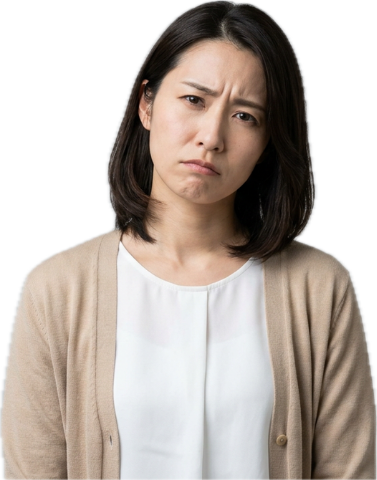
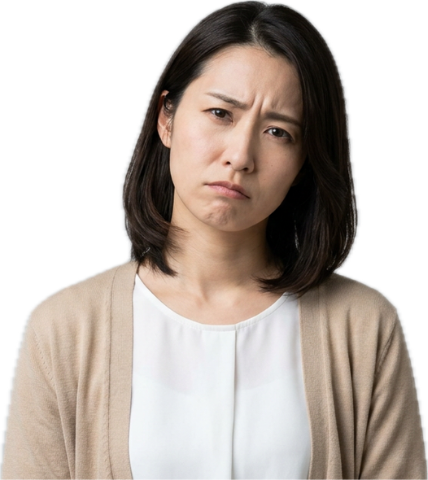
設計ページ：どんな作りのサムネイルでも再現できるように（縦書き・写真のコマ・絵文字・ギザギザ吹き出し・集中線・二重縁取り・金文字・光・影・背景ぼかし・3人まで）、架空の人物30人・背景写真20種に拡充

Changed region(s): [[0.0, 0.0, 1.0, 1.0], [0.496, 0.0, 0.5544, 0.0312], [0.7003, 0.1562, 0.7294, 0.1875]]

diff --git a/index.html b/index.html
@@ -387,25 +387,26 @@ function drawThumb(box, t) {
 
 // ---------- 競合サムネイルの再現 ----------
 // AIが参考の動画のサムネイル画像を見て書いた設計図（layout）どおりに描く。座標は画面に対する割合（0〜1）
-// 人物は、AIで作った架空の人物（persons/ のPNG。背景を切り抜いたもの）から選ぶ
+// 人物は AIで作った架空の人物（persons/ の切り抜きPNG）、写真の背景・コマは架空の場面（scenes/ のJPEG）。一覧は裏側（Code.gs の PERSONS・SCENES）
 const PERSON_BASE = "persons/", SCENE_BASE = "scenes/";
-const SCENE_IDS = ["living", "house", "office", "construction", "classroom", "clinic", "shop", "desk"];
-const PERSON_IDS = ["m40_suit_surprise", "m40_suit_serious", "m40_suit_troubled", "f30_office_surprise", "f30_office_serious", "f30_office_troubled",
-  "m50_work_surprise", "m50_work_serious", "m30_casual_surprise", "m30_casual_troubled", "f40_uniform_serious", "f40_suit_surprise"];
+const ASSET_ID = /^[a-z0-9_]{2,40}$/;
 function drawLayout(box, L) {
   const id = box.id, W = 1280, H = 720, SVGNS = "http://www.w3.org/2000/svg";
   const num = (v, lo, hi, d) => { v = Number(v); return isFinite(v) ? Math.min(hi, Math.max(lo, v)) : d; };
   const col = (c, d) => /^#[0-9a-fA-F]{6}$/.test(c || "") ? c : d;
   const bg = L.bg || {}, c1 = col(bg.c1, "#111111"), c2 = col(bg.c2, c1);
+  const shapes = (L.shapes || []).slice(0, 10);
+  const area = s => [num(s.x, -0.2, 1.2, 0) * W, num(s.y, -0.2, 1.2, 0) * H, num(s.w, 0, 1.4, 0.2) * W, num(s.h, 0, 1.4, 0.1) * H];
   const ol = L.outline === "" ? "" : col(L.outline, "#FFFFFF");  // 人物のフチ（空ならフチなし）
   let defs = ol ? `<filter id="ol${id}" x="-15%" y="-15%" width="130%" height="130%"><feMorphology in="SourceAlpha" operator="dilate" radius="7" result="d"/>
     <feFlood flood-color="${ol}"/><feComposite in2="d" operator="in" result="o"/><feMerge><feMergeNode in="o"/><feMergeNode in="SourceGraphic"/></feMerge></filter>` : "";
   let back = "", front = "", people = "", texts = "", frame = "", frameT = 0;
-  // 背景：写真（架空の場面）・単色・グラデーション・塗り分け
-  if (bg.kind === "photo" && SCENE_IDS.indexOf(bg.scene) >= 0) {
-    back += `<rect width="${W}" height="${H}" fill="${c1}"/><image href="${SCENE_BASE}${bg.scene}.jpg" x="0" y="0" width="${W}" height="${H}" preserveAspectRatio="xMidYMid slice"/>`;
-    const dim = num(bg.dim, 0, 0.7, 0);
-    if (dim) back += `<rect width="${W}" height="${H}" fill="#000000" opacity="${dim}"/>`;
+  // 背景：写真（架空の場面。ぼかし・暗さ・色味）・単色・グラデーション・塗り分け
+  if (bg.kind === "photo" && ASSET_ID.test(bg.scene || "")) {
+    const blur = num(bg.blur, 0, 1, 0), dim = num(bg.dim, 0, 0.7, 0), m = blur ? 40 : 0;
+    if (blur) defs += `<filter id="bb${id}"><feGaussianBlur stdDeviation="${(blur * 16).toFixed(1)}"/></filter>`;
+    back += `<rect width="${W}" height="${H}" fill="${c1}"/><image href="${SCENE_BASE}${bg.scene}.jpg" x="${-m}" y="${-m}" width="${W + 2 * m}" height="${H + 2 * m}" preserveAspectRatio="xMidYMid slice"${blur ? ` filter="url(#bb${id})"` : ""}/>`;
+    if (dim) back += `<rect width="${W}" height="${H}" fill="${col(bg.tint, "#000000")}" opacity="${dim}"/>`;
   } else if (bg.kind === "gradient") {
     const d = bg.dir === "v" ? 'x2="0" y2="1"' : bg.dir === "d" ? 'x2="1" y2="1"' : 'x2="1" y2="0"';
     defs += `<linearGradient id="bg${id}" x1="0" y1="0" ${d}><stop offset="0" stop-color="${c1}"/><stop offset="1" stop-color="${c2}"/></linearGradient>`;
@@ -419,12 +420,13 @@ function drawLayout(box, L) {
         : `<rect x="${W * at}" width="${W * (1 - at)}" height="${H}" fill="${c2}"/>`;
     }
   }
-  // 飾り：帯・箱・丸・矢印・吹き出し・線・画面のフチの枠（layer が front なら人物の上に描く。枠はいちばん上）
-  (L.shapes || []).slice(0, 8).forEach(s => {
-    const x = num(s.x, -0.2, 1.2, 0) * W, y = num(s.y, -0.2, 1.2, 0) * H, w = num(s.w, 0, 1.4, 0.2) * W, h = num(s.h, 0, 1.4, 0.1) * H;
+  // 飾り：帯・箱・丸・矢印・吹き出し・ギザギザ吹き出し・線・写真のコマ・絵文字・集中線・画面のフチの枠
+  // （layer が front なら人物の上に描く。枠はいちばん上）
+  shapes.forEach((s, si) => {
+    const [x, y, w, h] = area(s);
     const fill = col(s.fill, "none"), stroke = col(s.stroke, "none"), sw = stroke === "none" ? 0 : 12, rot = num(s.rot, -45, 45, 0);
     const tr = rot ? ` transform="rotate(${rot} ${x + w / 2} ${y + h / 2})"` : "";
-    let el;
+    let el = "";
     if (s.kind === "circle") el = `<ellipse cx="${x + w / 2}" cy="${y + h / 2}" rx="${w / 2}" ry="${h / 2}" fill="${fill}" stroke="${stroke}" stroke-width="${sw}"${tr}/>`;
     else if (s.kind === "arrow") {
       const x2 = num(s.x2, -0.2, 1.2, (x + w) / W) * W, y2 = num(s.y2, -0.2, 1.2, (y + h) / H) * H, len = Math.max(60, Math.hypot(x2 - x, y2 - y));
@@ -434,6 +436,31 @@ function drawLayout(box, L) {
       const tx = s.tail === "right" ? x + w * 0.78 : s.tail === "left" ? x + w * 0.22 : x + w * 0.5;
       el = `<g${tr}><rect x="${x}" y="${y}" width="${w}" height="${h}" rx="${Math.min(w, h) * 0.22}" fill="${fill === "none" ? "#FFFFFF" : fill}" stroke="${stroke}" stroke-width="${sw}"/>
         <polygon points="${tx - 34},${y + h - 2} ${tx + 34},${y + h - 2} ${tx + (s.tail === "left" ? -60 : s.tail === "right" ? 60 : 0)},${y + h + 70}" fill="${fill === "none" ? "#FFFFFF" : fill}" stroke="${stroke}" stroke-width="${sw}"/></g>`;
+    } else if (s.kind === "burst") {
+      const cx = x + w / 2, cy = y + h / 2, n = 16, pts = [];
+      for (let i = 0; i < n * 2; i++) {
+        const a = Math.PI * i / n - Math.PI / 2, r = i % 2 ? 0.74 : 1;
+        pts.push(`${(cx + Math.cos(a) * w / 2 * r).toFixed(1)},${(cy + Math.sin(a) * h / 2 * r).toFixed(1)}`);
+      }
+      el = `<polygon points="${pts.join(" ")}" fill="${fill === "none" ? "#FFE600" : fill}" stroke="${stroke}" stroke-width="${sw}" stroke-linejoin="round"${tr}/>`;
+    } else if (s.kind === "panel") {
+      const cid = `pc${id}_${si}`, dim = num(s.dim, 0, 0.7, 0);
+      defs += `<clipPath id="${cid}"><rect x="${x}" y="${y}" width="${w}" height="${h}"/></clipPath>`;
+      el = `<g${tr}><rect x="${x}" y="${y}" width="${w}" height="${h}" fill="${fill === "none" ? "#D9D9D9" : fill}"/>` +
+        (ASSET_ID.test(s.scene || "") ? `<image href="${SCENE_BASE}${s.scene}.jpg" x="${x}" y="${y}" width="${w}" height="${h}" preserveAspectRatio="xMidYMid slice" clip-path="url(#${cid})"/>` : "") +
+        (dim ? `<rect x="${x}" y="${y}" width="${w}" height="${h}" fill="#000000" opacity="${dim}"/>` : "") +
+        (stroke !== "none" ? `<rect x="${x}" y="${y}" width="${w}" height="${h}" fill="none" stroke="${stroke}" stroke-width="${Math.max(6, H * 0.012)}"/>` : "") + `</g>`;
+    } else if (s.kind === "emoji") {
+      const ch = Array.from(String(s.t || "")).slice(0, 4).join(""), fs = Math.max(24, Math.min(w, h)) * 0.9;
+      if (ch) el = `<text x="${x + w / 2}" y="${y + h / 2 + fs * 0.35}" font-size="${fs}" text-anchor="middle" font-family="Apple Color Emoji, Segoe UI Emoji, Noto Color Emoji, sans-serif"${tr}>${esc(ch)}</text>`;
+    } else if (s.kind === "rays") {
+      const cx = x + w / 2, cy = y + h / 2, r0 = Math.max(60, Math.min(w, h) * 0.36), R = 1700, n = 64;
+      let d = "";
+      for (let i = 0; i < n; i++) {
+        const a = 2 * Math.PI * i / n + (i % 3) * 0.02, r1 = r0 * (1 + ((i * 37) % 10) / 22), da = 0.01 + ((i * 17) % 5) * 0.003;
+        d += `M${(cx + Math.cos(a - da) * R).toFixed(0)},${(cy + Math.sin(a - da) * R).toFixed(0)}L${(cx + Math.cos(a) * r1).toFixed(0)},${(cy + Math.sin(a) * r1).toFixed(0)}L${(cx + Math.cos(a + da) * R).toFixed(0)},${(cy + Math.sin(a + da) * R).toFixed(0)}Z`;
+      }
+      el = `<path d="${d}" fill="${fill === "none" ? "#000000" : fill}" opacity="0.5"/>`;
     } else if (s.kind === "frame") {
       const hv = num(s.h, 0, 1.4, 0.025), t = (hv > 0.1 ? 0.025 : Math.max(0.006, Math.min(0.04, hv))) * H;
       const c = fill !== "none" ? fill : stroke !== "none" ? stroke : "#FFE600";
@@ -444,53 +471,81 @@ function drawLayout(box, L) {
     else el = `<rect x="${x}" y="${y}" width="${w}" height="${h}" rx="${s.kind === "rect" ? 16 : 0}" fill="${fill}" stroke="${stroke}" stroke-width="${sw}"${tr}/>`;
     if (s.layer === "front") front += el; else back += el;
     // 飾りの中の文字（「VS」「公開」など）
-    if (s.t && s.kind !== "arrow" && s.kind !== "line") {
-      const fs = Math.min(h * 0.58, H * 0.2), cy = s.kind === "bubble" ? y + h / 2 : y + h / 2;
-      texts += `<g class="tx" data-box="" data-in="1"${tr}><text x="${x + w / 2}" y="${cy + fs * 0.36}" font-size="${fs}" fill="${col(s.tc, "#FFFFFF")}" text-anchor="middle" data-maxw="${w * 0.86}" data-swr="0">${esc(String(s.t).slice(0, 8))}</text></g>`;
+    if (s.t && ["arrow", "line", "emoji", "panel", "rays"].indexOf(s.kind) < 0) {
+      const fs = Math.min(h * (s.kind === "burst" ? 0.4 : 0.58), H * 0.2);
+      texts += `<g class="tx" data-box="" data-in="1"${tr}><text x="${x + w / 2}" y="${y + h / 2 + fs * 0.36}" font-size="${fs}" fill="${col(s.tc, "#FFFFFF")}" text-anchor="middle" data-maxw="${w * (s.kind === "burst" ? 0.62 : 0.86)}" data-swr="0">${esc(String(s.t).slice(0, 8))}</text></g>`;
     }
   });
-  // 人物：下端を画面の下にそろえ、中心の横位置（cx）と高さ（h）で置く。白フチつき
-  (L.people || []).slice(0, 2).forEach(p => {
-    if (PERSON_IDS.indexOf(p.id) < 0) return;
-    const h = num(p.h, 0.3, 1.25, 0.9) * H, cx = num(p.cx, 0, 1, 0.5) * W;
-    const img = `<image href="${PERSON_BASE}${p.id}.png" x="${cx - W / 2}" y="${H - h}" width="${W}" height="${h}" preserveAspectRatio="xMidYMax meet" ${ol ? ` filter="url(#ol${id})"` : ""}/>`;
+  // 人物：下端（bottom。ふつうは画面の下）にそろえ、中心の横位置（cx）と高さ（h）で置く。最大3人
+  const persons = (L.people || []).slice(0, 3).filter(p => ASSET_ID.test(p.id || ""));
+  persons.forEach(p => {
+    const h = num(p.h, 0.3, 1.25, 0.9) * H, cx = num(p.cx, 0, 1, 0.5) * W, bot = num(p.bottom, 0.3, 1, 1) * H;
+    const img = `<image href="${PERSON_BASE}${p.id}.png" x="${cx - W / 2}" y="${bot - h}" width="${W}" height="${h}" preserveAspectRatio="xMidYMax meet"${ol ? ` filter="url(#ol${id})"` : ""}/>`;
     people += p.flip ? `<g transform="translate(${2 * cx},0) scale(-1,1)">${img}</g>` : img;
   });
-  // 文字の下地の色（帯・箱・吹き出し・丸・背景）。写真の上なら空
+  // 文字の下地の色（帯・箱・吹き出し・丸・背景）。写真（背景・コマ）の上なら空
   function luminance(h) { const v = [1, 3, 5].map(i => parseInt(h.substr(i, 2), 16) / 255).map(c => c <= 0.03928 ? c / 12.92 : Math.pow((c + 0.055) / 1.055, 2.4)); return 0.2126 * v[0] + 0.7152 * v[1] + 0.0722 * v[2]; }
   function contrast(a, b) { const x = luminance(a), y = luminance(b); return (Math.max(x, y) + 0.05) / (Math.min(x, y) + 0.05); }
   let underBox = null;  // 下地になった帯・箱の範囲（文字がはみ出したら縁取りを足すため）
   function underColor(px, py) {
     let u = "";
     underBox = null;
-    (L.shapes || []).slice(0, 8).forEach(c => {
-      const f = col(c.fill, ""), sx = num(c.x, -0.2, 1.2, 0), sy = num(c.y, -0.2, 1.2, 0), sw2 = num(c.w, 0, 1.4, 0.2), sh = num(c.h, 0, 1.4, 0.1);
-      if (f && ["band", "rect", "bubble", "circle"].indexOf(c.kind) >= 0 && !num(c.rot, -45, 45, 0) && px >= sx && px <= sx + sw2 && py >= sy && py <= sy + sh) {
-        u = f; underBox = [sx * W, sy * H, (sx + sw2) * W, (sy + sh) * H];
-      }
+    shapes.forEach(c => {
+      const sx = num(c.x, -0.2, 1.2, 0), sy = num(c.y, -0.2, 1.2, 0), sw2 = num(c.w, 0, 1.4, 0.2), sh = num(c.h, 0, 1.4, 0.1);
+      if (num(c.rot, -45, 45, 0) || px < sx || px > sx + sw2 || py < sy || py > sy + sh) return;
+      if (c.kind === "panel") { u = "photo"; underBox = null; return; }
+      const f = col(c.fill, "");
+      if (f && ["band", "rect", "bubble", "circle", "burst"].indexOf(c.kind) >= 0) { u = f; underBox = [sx * W, sy * H, (sx + sw2) * W, (sy + sh) * H]; }
     });
+    if (u === "photo") return "";
     if (u) return u;
-    if (bg.kind === "photo" && SCENE_IDS.indexOf(bg.scene) >= 0) return "";
+    if (bg.kind === "photo" && ASSET_ID.test(bg.scene || "")) return "";
     if (bg.kind === "split") { const at = num(bg.at, 0.1, 0.9, 0.5); return (bg.dir === "v" ? py : px) < at ? c1 : c2; }
     if (bg.kind === "gradient") return "#" + [1, 3, 5].map(i => Math.round((parseInt(c1.substr(i, 2), 16) + parseInt(c2.substr(i, 2), 16)) / 2).toString(16).padStart(2, "0")).join("");  // 中間の色で見る
     return c1;
   }
-  // 文字：位置・大きさ・色・縁取り・箱。「／」で改行
-  (L.texts || []).slice(0, 5).forEach(t => {
-    const lines = String(t.t || "").split("／").map(x => x.trim()).filter(Boolean).slice(0, 3);
+  // 文字：位置・大きさ・色・縁取り（二重も）・グラデーション・光・影・斜体・箱。「／」で改行。vertical は縦書き
+  (L.texts || []).slice(0, 6).forEach((t, k) => {
+    const lines = String(t.t || "").split("／").map(x => x.trim()).filter(Boolean).slice(0, 4);
     if (!lines.length) return;
-    const size = num(t.size, 0.05, 0.3, 0.14) * H, y = num(t.y, 0.05, 1, 0.3) * H;
+    const vertical = !!t.vertical;
+    let size = num(t.size, 0.05, 0.3, 0.14) * H;
+    const y = num(t.y, 0, 1, 0.3) * H;
     let x = num(t.x, 0, 1, 0.05) * W, anchor = ["start", "middle", "end"].indexOf(t.align) >= 0 ? t.align : "start";
     let fill = col(t.color, "#FFFFFF"), stroke = col(t.stroke, ""), swr = stroke ? num(t.sw, 0, 0.3, 0.14) : 0;
-    const under = col(t.box, "") || underColor(x / W, (y - size * 0.4) / H);
+    const stroke2 = col(t.stroke2, ""), fill2 = col(t.fill2, ""), bx = col(t.box, "");
+    const under = bx || underColor(x / W, (vertical ? y + size * 0.6 : y - size * 0.4) / H);
     if (under) {
-      if (contrast(fill, under) < 3 && !(stroke && swr >= 0.08 && contrast(stroke, under) >= 3))
+      if (contrast(fill, under) < 3 && !(stroke && swr >= 0.08 && contrast(stroke, under) >= 3) && !(stroke2 && contrast(stroke2, under) >= 3))
         fill = contrast("#111111", under) >= contrast("#FFFFFF", under) ? "#111111" : "#FFFFFF";
-    } else if (!stroke) { stroke = luminance(fill) > 0.4 ? "#000000" : "#FFFFFF"; swr = 0.1; }
+    } else if (!stroke && !stroke2) { stroke = luminance(fill) > 0.4 ? "#000000" : "#FFFFFF"; swr = 0.1; }
+    const rot = num(t.rot, -30, 30, 0), skew = num(t.skew, -20, 20, 0);
+    const tf = [rot ? `rotate(${rot} ${x} ${y})` : "", skew ? `translate(${x} ${y}) skewX(${skew}) translate(${-x} ${-y})` : ""].filter(Boolean).join(" ");
+    const gid = `tg${id}_${k}`;
+    if (fill2) defs += `<linearGradient id="${gid}" x1="0" y1="0" x2="0" y2="1"><stop offset="0.2" stop-color="${fill}"/><stop offset="0.95" stop-color="${fill2}"/></linearGradient>`;
+    const paint = fill2 ? `url(#${gid})` : fill;
+    const strokeAt = sz => stroke ? ` stroke="${stroke}" stroke-width="${swr * sz}"` : "";
+    const eff = (stroke2 ? ` data-s2="${stroke2}" data-sw2="${num(t.sw2, 0.02, 0.3, 0.1)}"` : "") + (col(t.glow, "") ? ` data-glow="${col(t.glow, "")}"` : "") + (t.shadow ? ` data-shadow="1"` : "");
+    if (vertical) {
+      // 縦書き：「／」ごとに1列。右の列から左へ。x＝いちばん右の列の中心、y＝列の上端、maxw＝列の長さの上限（画面の高さに対する割合）
+      const n = Math.max(...lines.map(l => Array.from(l).length));
+      size = Math.max(Math.min(size, num(t.maxw, 0.1, 1, 0.9) * H / (n * 1.02)), H * 0.06);
+      const step = size * 1.02, gap = size * 1.15;
+      let els = "";
+      lines.forEach((l, ci) => Array.from(l).forEach((ch, i) => {
+        const cx = x - ci * gap, top = y + i * step;
+        let dx = 0, dy = 0, extra = "";
+        if (/[ー－―〜～…‥]/.test(ch)) extra = ` transform="rotate(90 ${cx} ${top + size * 0.5})"`;
+        else if (/[ぁぃぅぇぉっゃゅょゎァィゥェォッャュョヮヵヶ]/.test(ch)) { dx = size * 0.12; dy = -size * 0.1; }
+        else if (/[、。，．]/.test(ch)) { dx = size * 0.36; dy = -size * 0.52; }
+        els += `<text x="${cx + dx}" y="${top + size * 0.88 + dy}" font-size="${size}" fill="${paint}"${strokeAt(size)} text-anchor="middle" data-maxw="99999" data-swr="${swr}"${extra}>${esc(ch)}</text>`;
+      }));
+      texts += `<g class="tx" data-v="1" data-box="${bx}"${eff}${tf ? ` transform="${tf}"` : ""}>${els}</g>`;
+      return;
+    }
     let maxw = num(t.maxw, 0.1, 1, 0.9) * W;
-    const rot = num(t.rot, -30, 30, 0);
-    // 吹き出し・箱の中に置いた文字は、その中央に収める。帯の中の文字は、帯からはみ出さない幅にする
-    const inside = (L.shapes || []).slice(0, 8).find(c => ["bubble", "rect", "band"].indexOf(c.kind) >= 0 && !num(c.rot, -45, 45, 0) &&
+    // 吹き出し・箱・ギザギザの中に置いた文字は、その中央に収める。帯の中の文字は、帯からはみ出さない幅にする
+    const inside = shapes.find(c => ["bubble", "rect", "band", "burst"].indexOf(c.kind) >= 0 && !num(c.rot, -45, 45, 0) &&
       x >= num(c.x, -0.2, 1.2, 0) * W && x <= (num(c.x, -0.2, 1.2, 0) + num(c.w, 0, 1.4, 0.2)) * W &&
       y - size * 0.4 >= num(c.y, -0.2, 1.2, 0) * H && y - size * 0.4 <= (num(c.y, -0.2, 1.2, 0) + num(c.h, 0, 1.4, 0.1)) * H);
     if (inside) {
@@ -498,35 +553,35 @@ function drawLayout(box, L) {
       if (inside.kind === "band") {
         const room = anchor === "start" ? cx0 + cw - pd - x : anchor === "end" ? x - cx0 - pd : 2 * Math.min(x - cx0, cx0 + cw - x) - 2 * pd;
         maxw = Math.max(W * 0.08, Math.min(maxw, room));
-      } else { x = cx0 + cw / 2; anchor = "middle"; maxw = Math.max(W * 0.08, cw - 2 * pd); }
+      } else { x = cx0 + cw / 2; anchor = "middle"; maxw = Math.max(W * 0.08, cw * (inside.kind === "burst" ? 0.66 : 1) - 2 * pd); }
     }
-    const ts = lines.map((s, k) => `<text x="${x}" y="${y + k * size * 1.12}" font-size="${size}" fill="${fill}"${stroke ? ` stroke="${stroke}" stroke-width="${swr * size}"` : ""} text-anchor="${anchor}" data-maxw="${maxw}" data-swr="${swr}">${esc(s)}</text>`).join("");
-    const ub = !col(t.box, "") && underBox && !stroke ? ` data-ub="${underBox.join(",")}"` : "";
-    texts += `<g class="tx" data-box="${col(t.box, "")}"${ub}${rot ? ` transform="rotate(${rot} ${x} ${y})"` : ""}>${ts}</g>`;
+    const ts = lines.map((s, j) => `<text x="${x}" y="${y + j * size * 1.12}" font-size="${size}" fill="${paint}"${strokeAt(size)} text-anchor="${anchor}" data-maxw="${maxw}" data-swr="${swr}">${esc(s)}</text>`).join("");
+    const ub = !bx && underBox && !stroke && !stroke2 ? ` data-ub="${underBox.join(",")}"` : "";
+    texts += `<g class="tx" data-box="${bx}"${ub}${eff}${tf ? ` transform="${tf}"` : ""}>${ts}</g>`;
   });
   box.innerHTML = `<svg viewBox="0 0 ${W} ${H}" xmlns="${SVGNS}"><defs>${defs}</defs>${back}${people}${front}
     <g font-family="Hiragino Sans, Noto Sans JP, sans-serif" font-weight="900" stroke-linejoin="round" style="paint-order:stroke">${texts}</g>${frame}</svg>`;
   // はみ出す行があれば、そのかたまり全体を同じ割合で小さくする。人物の顔にかかる文字は顔の横の広い側へ寄せ、
-  // 画面の内側に収めてから、箱を後から敷く
-  const shrink = (ts, k) => {
-    if (!(k < 1)) return;
+  // 画面の内側に収めてから、箱を後から敷き、最後に文字の効果（外側の縁取り・光・影）を付ける
+  const shrink = (g, ts, k) => {
+    if (!(k < 1) || g.dataset.v) return;
     const y0 = +ts[0].getAttribute("y"), fs = parseFloat(ts[0].getAttribute("font-size")) * k;
     ts.forEach((el, i) => { el.setAttribute("font-size", fs); el.setAttribute("y", y0 + i * fs * 1.12); if (+el.dataset.swr) el.setAttribute("stroke-width", fs * el.dataset.swr); });
   };
-  const faces = (L.people || []).slice(0, 2).filter(p => PERSON_IDS.indexOf(p.id) >= 0).map(p => {
-    const h = num(p.h, 0.3, 1.25, 0.9) * H, cx = num(p.cx, 0, 1, 0.5) * W;
-    return {x1: cx - 0.19 * h, x2: cx + 0.19 * h, y1: H - h, y2: H - h * 0.5};
+  const faces = persons.map(p => {
+    const h = num(p.h, 0.3, 1.25, 0.9) * H, cx = num(p.cx, 0, 1, 0.5) * W, bot = num(p.bottom, 0.3, 1, 1) * H;
+    return {x1: cx - 0.19 * h, x2: cx + 0.19 * h, y1: bot - h, y2: bot - h * 0.5};
   });
   // 1) はみ出しを縮める 2) 顔にかかるものは、横へずらす量を決める（同じ列の文字は同じだけずらして、そろいを崩さない）
-  const items = [...box.querySelectorAll("g.tx")].map(g => {
+  const items = [...box.querySelectorAll("g.tx")].map((g, gi) => {
     const ts = [...g.querySelectorAll("text")];
     let k = 1;
-    ts.forEach(el => { const w = el.getComputedTextLength(), m = +el.dataset.maxw; if (w > m) k = Math.min(k, m / w); });
+    if (!g.dataset.v) ts.forEach(el => { const w = el.getComputedTextLength(), m = +el.dataset.maxw; if (w > m) k = Math.min(k, m / w); });
     // 小さくしすぎない（画面の高さの6.5%まで。飾りの中の文字は除く）
     const fs0 = parseFloat(ts[0].getAttribute("font-size")), floor = Math.min(fs0, H * 0.065);
     if (!g.dataset.in && fs0 * k < floor) k = floor / fs0;
-    shrink(ts, k);
-    const it = {g: g, ts: ts, dx: 0, key: ts[0].getAttribute("text-anchor") + Math.round(+ts[0].getAttribute("x") / 25)};
+    shrink(g, ts, k);
+    const it = {g: g, ts: ts, gi: gi, dx: 0, key: ts[0].getAttribute("text-anchor") + Math.round(+ts[0].getAttribute("x") / 25)};
     it.bp = () => g.dataset.box ? parseFloat(ts[0].getAttribute("font-size")) * 0.16 : 0;
     if (g.dataset.in || /rotate/.test(g.getAttribute("transform") || "")) return it;
     const m = H * 0.03, pad = W * 0.015;
@@ -536,7 +591,7 @@ function drawLayout(box, L) {
       if (x2 <= f.x1 || x1 >= f.x2 || y2 <= f.y1 || y1 >= f.y2) return;
       const left = (x1 + x2) / 2 < (f.x1 + f.x2) / 2, room = left ? f.x1 - pad - m : W - m - pad - f.x2;
       if (room < W * 0.22) return;  // 顔の横に余地がなければ、そのまま
-      if (x2 - x1 > room) { shrink(ts, room / (x2 - x1)); b = g.getBBox(); }
+      if (x2 - x1 > room) { shrink(g, ts, room / (x2 - x1)); b = g.getBBox(); }
       const l0 = b.x - it.bp(), w = b.width + 2 * it.bp();
       it.dx = left ? Math.max(m - l0, Math.min(it.dx, f.x1 - pad - (l0 + w))) : Math.min(W - m - w - l0, Math.max(it.dx, f.x2 + pad - l0));
     });
@@ -548,8 +603,8 @@ function drawLayout(box, L) {
     const ds = cols[key].map(it => it.dx), hi = Math.max(0, ...ds), lo = Math.min(0, ...ds), d = -lo > hi ? lo : hi;
     cols[key].forEach(it => { it.dx = d; });
   });
-  // 3) 画面の内側に収める 4) 箱を後から敷く
-  items.forEach(({g, ts, dx, bp}) => {
+  // 3) 画面の内側に収める 4) 箱を後から敷く 5) 文字の効果
+  items.forEach(({g, ts, gi, dx, bp}) => {
     if (!g.dataset.in) {
       const m = Math.max(H * 0.03, frameT + H * 0.012), b = g.getBBox();
       let dy = 0;
@@ -569,6 +624,19 @@ function drawLayout(box, L) {
       const r = document.createElementNS(SVGNS, "rect");
       r.setAttribute("x", b.x - pad); r.setAttribute("y", b.y - pad * 0.5); r.setAttribute("width", b.width + pad * 2); r.setAttribute("height", b.height + pad);
       r.setAttribute("fill", g.dataset.box); g.insertBefore(r, g.firstChild);
+    }
+    if (g.dataset.s2 || g.dataset.glow || g.dataset.shadow) {
+      const fs = parseFloat(ts[0].getAttribute("font-size")), fid = `tf${id}_${gi}`, v = !!g.dataset.v;
+      let prim = "";
+      const merge = [];
+      if (g.dataset.shadow) { prim += `<feOffset in="SourceAlpha" dx="${fs * 0.04}" dy="${fs * 0.06}" result="so"/><feGaussianBlur in="so" stdDeviation="${fs * 0.035}" result="sb"/><feFlood flood-color="#000000" flood-opacity="0.6"/><feComposite in2="sb" operator="in" result="sh"/>`; merge.push("sh"); }
+      if (g.dataset.glow) { prim += `<feMorphology in="SourceAlpha" operator="dilate" radius="${fs * 0.05}" result="gd"/><feGaussianBlur in="gd" stdDeviation="${fs * 0.1}" result="gb"/><feFlood flood-color="${g.dataset.glow}"/><feComposite in2="gb" operator="in" result="gl"/>`; merge.push("gl", "gl"); }
+      if (g.dataset.s2) { prim += `<feMorphology in="SourceAlpha" operator="dilate" radius="${fs * +g.dataset.sw2}" result="od"/><feFlood flood-color="${g.dataset.s2}"/><feComposite in2="od" operator="in" result="o2"/>`; merge.push("o2"); }
+      const f = document.createElementNS(SVGNS, "filter");
+      [["id", fid], ["x", v ? "-80%" : "-30%"], ["y", v ? "-20%" : "-60%"], ["width", v ? "260%" : "160%"], ["height", v ? "140%" : "220%"]].forEach(([a, val]) => f.setAttribute(a, val));
+      f.innerHTML = prim + `<feMerge>${merge.map(mm => `<feMergeNode in="${mm}"/>`).join("")}<feMergeNode in="SourceGraphic"/></feMerge>`;
+      box.querySelector("defs").appendChild(f);
+      g.setAttribute("filter", `url(#${fid})`);
     }
   });
 }
